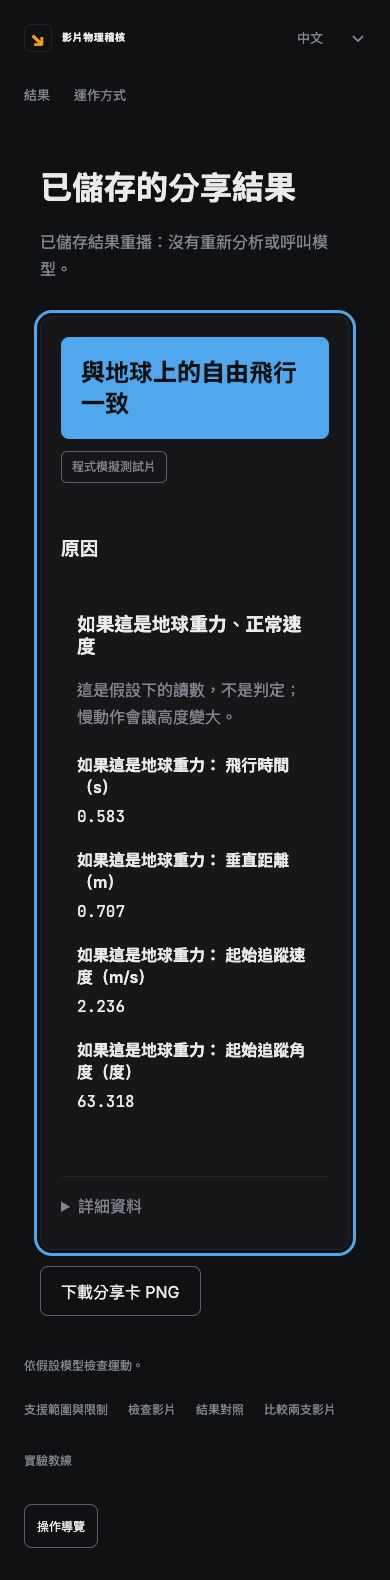
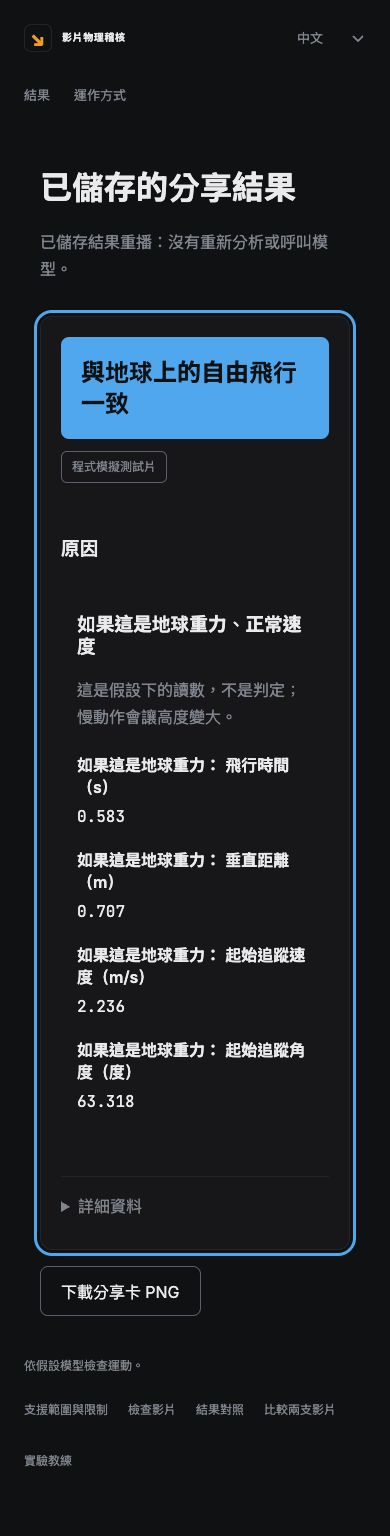
T246: record completion, implementation commit and browser checks

diff --git a/docs/STATUS.md b/docs/STATUS.md
@@ -20,7 +20,7 @@
 | 誰 | 照這個順序做 |
 | --- | --- |
 | **Muse** | 全部完成 |
-| **Codex** | T242 前端修正完成（PR #149）；部署驗證已移交 T248。接 T246：只做永久結果連結，沿用 Claude 已合併的背景工作。 |
+| **Codex** | 本輪完成：T242 PR #149 已合併；T246 永久結果連結 commit 9eec8f0，推送 codex/T246-background-share。部署與線上驗證由 T248 接手。 |
 | **Antigravity** | 全部完成（T231 記憶體實測通過、T230 線上實測三支片＋429 速率限制全過） |
 | **Manus** | 沒有待辦（T199–T201 已交，Claude 改寫成最終版） |
 | **Claude** | 審查合併 → T217 凍結前提交檢查 |
@@ -53,7 +53,7 @@
 
 **Codex**（11/01 Claude 加，凍結前做完；順序 T229 → T235 → T226 → T227）
 - [x] T247 Claude（11/02 john Mac 真 SAM 驗證時找到）：自由飛行的「軌跡散佈」檢查原本拿起點到終點的直線距離當分母；完整上拋再落下的片起終點幾乎一樣高，分母只剩約 40 px，任何對稱拋物線都過不了（Pexels 真片 g=10.64 卻被判 inconsistent 的主因）。改成用擬合曲線的路徑長，2% 門檻不變。重算全部 demo 紀錄：判定與 g 全部不變（只有 rms_over_travel 數字變小，已更新）；meta_clip5 仍 9.4% 不一致。原本 5 cm 擺動的測試改成 10 cm（5 cm 只佔路徑 1.7%，以前是被短分母放大才抓到）。T244 晃動校正驗證：own_1–3 仍一致（9.32／9.44／8.85），Pexels 晃 34 px 已校正，答「鏡頭沒固定」也不再拒判。
-- [ ] T246 Codex（Codex 進行中，codex/T246-background-share；PR #149 已合併，背景工作沿用 main；11/02，接在 T242 / PR #149 後；john 說 Codex token 快用完，只做這一小件，做不完就留給 Antigravity）：第 (1) 點背景工作 **Claude 已做完**（`api.ts` 的 audit／auditFromDraft 改送 `/api/audit-jobs` 再輪詢）。只剩 (2) **永久結果連結**：Copy link 改成把結果 JSON（不含影片；points 只留畫圖需要的）用瀏覽器內建 `CompressionStream("gzip")`＋base64url 放進網址 `#r=`，打開時直接畫結果、不呼叫後端；超過約 30 KB 才退回 `/api/audits/{id}` 並註明會失效。取代 T242 第 (8) 點。不加新套件，加測試，兩種 build 不壞。
+- [x] T246 Codex（永久結果連結完成；commit 9eec8f0；codex/T246-background-share；PR #149 已合併，背景工作沿用 main；11/02，接在 T242 / PR #149 後；john 說 Codex token 快用完，只做這一小件，做不完就留給 Antigravity）：第 (1) 點背景工作 **Claude 已做完**（`api.ts` 的 audit／auditFromDraft 改送 `/api/audit-jobs` 再輪詢）。只剩 (2) **永久結果連結**：Copy link 改成把結果 JSON（不含影片；points 只留畫圖需要的）用瀏覽器內建 `CompressionStream("gzip")`＋base64url 放進網址 `#r=`，打開時直接畫結果、不呼叫後端；超過約 30 KB 才退回 `/api/audits/{id}` 並註明會失效。取代 T242 第 (8) 點。不加新套件，加測試，兩種 build 不壞。
 - [ ] T248 Antigravity（11/02 Claude 加，Codex token 不夠，這幾件移給你）：(1) 打開 `https://video-physics-audit.onrender.com/api/version`，`commit` 要等於 `git rev-parse origin/main`；不是就到 Render 按 Manual Deploy → Deploy latest commit，並確認 Settings 的 Auto-Deploy 是 On（T242 第 1 點移給你）。(2) 部署好後用真瀏覽器在線上跑：範例 meta_ai_ball_4（應 inconsistent，g≈0.14）、synthetic_toss（應 consistent）、Pexels 真籃球片（john 的 Downloads，鏡頭答「沒固定」，時間窗 0.64–1.28 秒，應 consistent g≈10.6）、一支 4K 片和一支選 5 秒時間窗的片（不能讓伺服器當掉）。每支記判定、g、耗時、錯誤。(3) 確認送出後等超過 2 分鐘，結果仍會出現（背景工作 T246）。不要上傳有人臉的影片、不要 commit 影片、不要印出金鑰；每小時每人 10 次檢查、全站 30 次。結果寫進工作日誌並打勾。
 - [x] T246a Claude：前端送出檢查改用背景工作 `/api/audit-jobs` 並每 3 秒輪詢；斷線 5 次才報錯；伺服器重啟（404）時請使用者重送；舊後端直接回結果也相容。前端 180 個測試通過、兩種 build 通過。
 - [x] T245 Claude（john：限制寫進去就廢了）：新增背景檢查 `POST /api/audit-jobs`／`GET /api/audit-jobs/{id}`，長的檢查不再因瀏覽器逾時把算好（也付過錢）的結果丟掉；判定與數字跟 `/api/audits` 完全相同（有測試比對）；公開模式算進同一個每 IP 與全站「檢查」額度。API v1.6。
@@ -481,6 +481,8 @@ v1 全拒判 → v2 有 4 支判出不一致（clip1 g=0.24 冥王星、clip4 g=
 | 10/31 | T184：SAM 跑 4 支側面車子片 6 個窗（每窗 $0.018–0.024） | 0.125 | 2.112 |
 
 ## 工作日誌（最新在上）
+
+- 11/01 Codex 本輪 T242／T246 完成：PR #149 合併 main（8734f4b）；永久連結實作 9eec8f0，完成表已打勾並推送 codex/T246-background-share，目標 main。197 前端測試、兩種 build、308 pytest 全過。Codex 沒有本輪待辦；T248 部署／Auto-Deploy 未由本分支冒稱完成。
 
 - 11/01 Codex T246 永久結果連結：PR #149 已依 john 指示合併 main（merge 8734f4b，STATUS 以 main 為準保留 T246a／T247／T248）。本分支只接剩餘分享功能，保留 Claude 的背景工作實作，不改 api.ts、後端或 demo JSON。Copy link 使用原生 gzip＋base64url 將 v1 儲存結果放入 #r=；不包含影片／疊圖 URL，只保留已知結果欄位。軌跡最多各 600 個原始點（保留首尾、不插值），數字、判定、原因和模型原文不改；精簡時在分享頁明示。超過約 30 KiB URL、壓縮不支援或失敗才退回原 ID 連結，僅 fallback 顯示重啟失效及存 JSON 提醒。無新套件。
 - 11/01 Codex T246 讀取保護：分享頁在本機解壓與驗證，包含空白／無效 #r= 都不掛載上傳、遠端影片、導覽或花費查詢；解壓上限 1 MiB，拒絕格式錯誤／不支援版本，且解碼後再次去除媒體欄位。保留來源與程式模擬標示。依既有後端 schema 補正前端 nullable explanation 與 vehicle_class，避免有效回應無法分享，未變更 API 契約。
